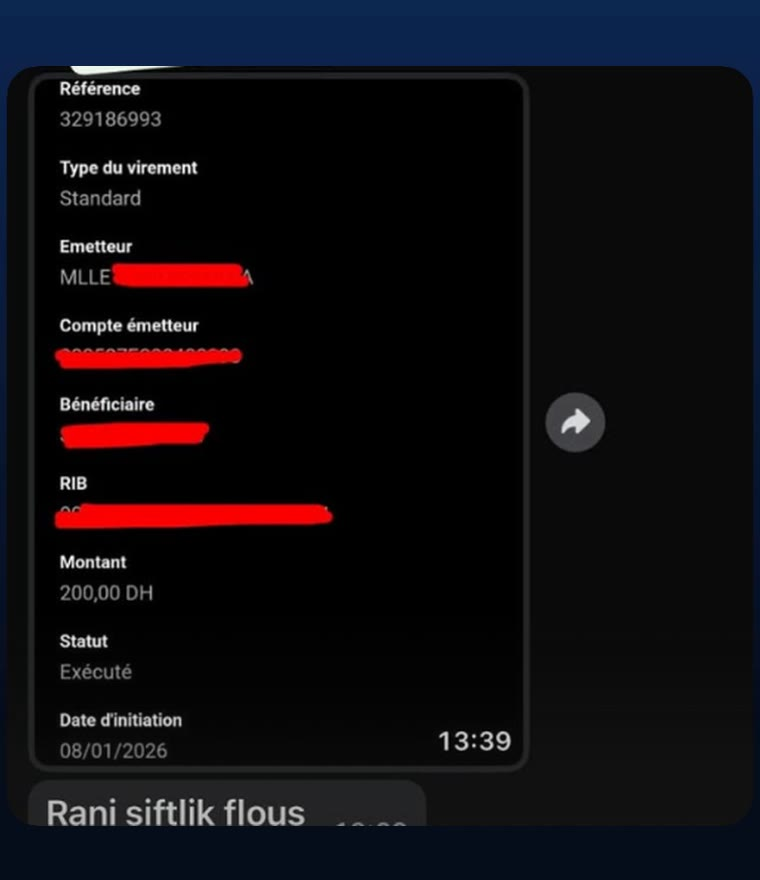
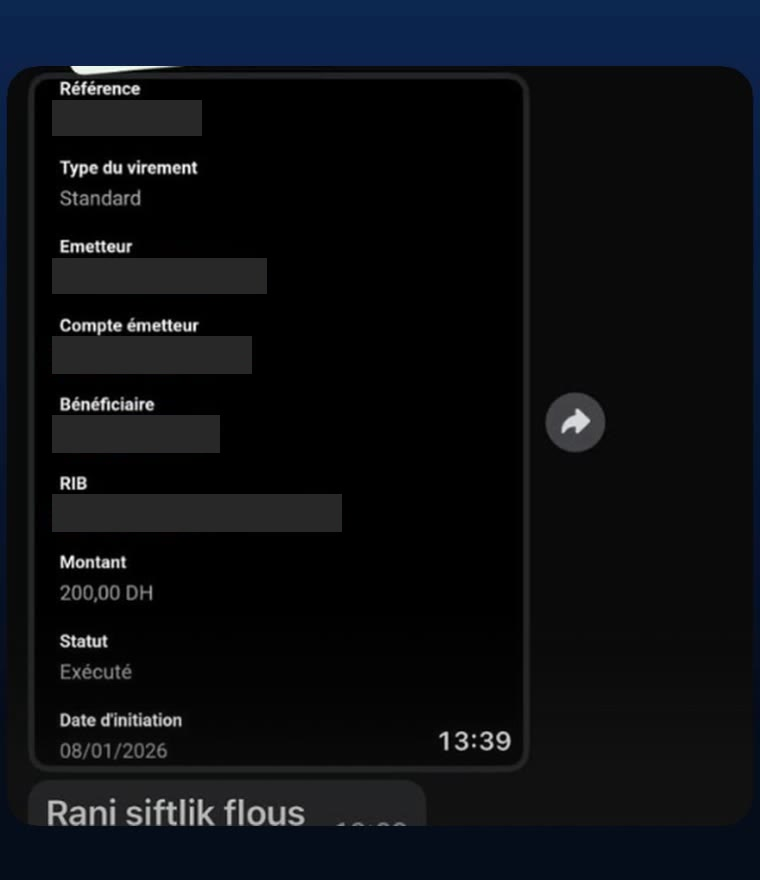
Fix issues found in the site audit
Site:
- Open WhatsApp through api.whatsapp.com/send: the wa.me redirect
  turned emoji such as ✅ and 📎 into a replacement character.
- Thank-you texts point to the 'Ouvrir WhatsApp' button, since the
  automatic open can be blocked without a tap.
- Fully cover the account, RIB and reference on the bank transfer
  proof, and the receipt code and barcode on the Cash Plus proof.
- Short privacy line next to the send button.
- A fast double tap on Suivant no longer lands on Retour.
- /formulaire: no history entry on load (Back left only on the second
  press); Back now goes to the previous step, then leaves.
- Chrome Android Back gesture goes back one step in the popup instead
  of closing it.
- Keep the order id until Google confirms, so a retry updates the same
  row; phone typed as 212... no longer becomes 212212...; certificates
  listed as 'if any'.

Script (to paste in Apps Script):
- Escape client text starting with = + - @ so Sheets does not read it
  as a formula.
- Never create a new spreadsheet when the real one fails to open.
- No empty Drive folder per order now that photos come by WhatsApp.
- Shorten the WhatsApp alert without cutting an emoji in half.

diff --git a/index.html b/index.html
@@ -701,11 +701,12 @@ dialog.lb button { position: fixed; top: 14px; right: 14px; width: 48px; height:
           <div class="full"><label><span><span lang="ar">شنو كتحب دير فوقت الفراغ</span><span lang="fr">Ce que vous aimez faire</span></span><input type="text" name="loisirs" data-ph="Football, lecture, cuisine…" autocomplete="off"></label></div>
 
           <div class="part"><i>10</i><span lang="ar">التصويرة والوثائق</span><span lang="fr">Photo et documents</span></div>
-          <div class="full" id="doc-note"><span lang="ar">📎 التصويرة الشخصية، رخصة السياقة والشهادات (تصاور ولا PDF): صيفطهم لينا فواتساب من بعد ما تصيفط المعلومات. واتساب غادي يتحل بوحدو.</span><span lang="fr">📎 Photo d'identité, permis et certificats (photos ou PDF) : envoyez-les-nous sur WhatsApp après l'envoi du formulaire. WhatsApp s'ouvrira tout seul.</span></div>
+          <div class="full" id="doc-note"><span lang="ar">📎 التصويرة الشخصية، رخصة السياقة والشهادات (تصاور ولا PDF): صيفطهم لينا فواتساب من بعد ما تصيفط المعلومات.</span><span lang="fr">📎 Photo d'identité, permis et certificats (photos ou PDF) : envoyez-les-nous sur WhatsApp après l'envoi du formulaire.</span></div>
         </div>
         <div class="foot">
           <div class="nav"><button class="btn soft" type="button" id="pg-back"><span lang="ar">رجوع</span><span lang="fr">Retour</span></button><button class="btn go" type="button" id="pg-next"><span lang="ar">التالي</span><span lang="fr">Suivant</span><svg class="arr" viewBox="0 0 24 24" aria-hidden="true"><path fill="none" stroke="currentColor" stroke-width="2.4" stroke-linecap="round" stroke-linejoin="round" d="M15 5l-7 7 7 7"/></svg></button></div>
           <button class="btn go" type="submit" id="pg-send"><span lang="ar">صيفط المعلومات</span><span lang="fr">Envoyer</span><svg class="arr" viewBox="0 0 24 24" aria-hidden="true"><path fill="none" stroke="currentColor" stroke-width="2.4" stroke-linecap="round" stroke-linejoin="round" d="M15 5l-7 7 7 7"/></svg></button>
+          <span class="saved"><span lang="ar">🔒 المعلومات ديالك كنستعملوها غير باش نوجدو الملف ديالك، وما كنعطيوهاش لحد.</span><span lang="fr">🔒 Vos informations servent uniquement à préparer votre dossier et ne sont partagées avec personne.</span></span>
           <span class="saved" id="saved"><span lang="ar">المعلومات كتتسجل فالتليفون ديالك حتى تصيفطها.</span><span lang="fr">Vos réponses restent enregistrées sur votre téléphone jusqu'à l'envoi.</span></span>
         </div>
       </form>
@@ -717,8 +718,8 @@ dialog.lb button { position: fixed; top: 14px; right: 14px; width: 48px; height:
       <div class="form thanks" id="thanks" hidden>
         <div class="big">🙏</div>
         <b><span lang="ar">شكرا! توصلنا بالطلب ديالك</span><span lang="fr">Merci ! Votre demande est bien reçue</span></b>
-        <p id="thx-ok"><span lang="ar">المعلومات ديالك وصلونا ✅ واتساب غادي يتحل دابا: كليكي على ➤، ومن بعد صيفط لينا التصويرة والوثائق فنفس المحادثة.</span><span lang="fr">Vos informations nous sont parvenues ✅ WhatsApp va s'ouvrir : touchez ➤, puis envoyez-nous votre photo et vos documents dans la même conversation.</span></p>
-        <p id="thx-send" hidden><span lang="ar">⚠ الأنترنت ضعيف وما تأكدناش واش وصلونا المعلومات. واتساب غادي يتحل فيه الأجوبة ديالك: كليكي على ➤ باش توصلنا، ومن بعد صيفط التصويرة والوثائق.</span><span lang="fr">⚠ Connexion faible : nous n'avons pas pu confirmer la réception. WhatsApp va s'ouvrir avec vos réponses : touchez ➤ pour nous les envoyer, puis envoyez votre photo et vos documents.</span></p>
+        <p id="thx-ok"><span lang="ar">المعلومات ديالك وصلونا ✅ كليكي على « حل واتساب » وصيفط الميساج، ومن بعد صيفط لينا التصويرة والوثائق فنفس المحادثة.</span><span lang="fr">Vos informations nous sont parvenues ✅ Touchez « Ouvrir WhatsApp » et envoyez le message, puis votre photo et vos documents dans la même conversation.</span></p>
+        <p id="thx-send" hidden><span lang="ar">⚠ الأنترنت ضعيف وما تأكدناش واش وصلونا المعلومات. كليكي على « حل واتساب »: الأجوبة ديالك غادي تكون فالميساج، صيفطها باش توصلنا، ومن بعد صيفط التصويرة والوثائق.</span><span lang="fr">⚠ Connexion faible : nous n'avons pas pu confirmer la réception. Touchez « Ouvrir WhatsApp » : vos réponses seront dans le message, envoyez-le, puis votre photo et vos documents.</span></p>
         <button class="btn go" type="button" id="thx-wa"><span lang="ar">حل واتساب</span><span lang="fr">Ouvrir WhatsApp</span></button>
       </div>
 </dialog>
@@ -740,7 +741,7 @@ dialog.lb button { position: fixed; top: 14px; right: 14px; width: 48px; height:
   }
   function wire() {
     document.querySelectorAll('.wa').forEach(function (a) {
-      a.href = 'https://wa.me/' + PHONE + '?text=' + encodeURIComponent(msg());
+      a.href = 'https://api.whatsapp.com/send?phone=' + PHONE + '&text=' + encodeURIComponent(msg());
       a.removeAttribute('target'); a.rel = 'noopener';
     });
     document.querySelectorAll('.tel-link').forEach(function (a) { a.href = 'tel:+' + PHONE; });
@@ -754,7 +755,8 @@ dialog.lb button { position: fixed; top: 14px; right: 14px; width: 48px; height:
   // auto = opened by the page itself, not by a tap: on phones only try the app, so a blocked attempt
   // leaves the thank-you screen (and its WhatsApp button) instead of jumping to the wa.me page
   function goWhatsApp(text, auto) {
-    var web = 'https://wa.me/' + PHONE + '?text=' + encodeURIComponent(text);
+    // not wa.me: its redirect turns emoji such as ✅ and 📎 into �
+    var web = 'https://api.whatsapp.com/send?phone=' + PHONE + '&text=' + encodeURIComponent(text);
     var phone = /Android|iPhone|iPad|iPod/i.test(navigator.userAgent);
     setTimeout(function () {
       if (!phone) { location.href = web; return; }
@@ -901,7 +903,9 @@ dialog.lb button { position: fixed; top: 14px; right: 14px; width: 48px; height:
   var cells = Array.prototype.slice.call(form.querySelector('.g').children), sNow = 1;
   cells.forEach(function (el) { if (el.classList.contains('part')) sNow = STEPS[+el.querySelector('i').textContent] || sNow; el.dataset.step = sNow; });
   var reached = {};
+  var wentAt = 0;
   function go(n) {
+    wentAt = Date.now();
     cur = Math.max(1, Math.min(NSTEP, n));
     cells.forEach(function (el) { el.classList.toggle('hid', +el.dataset.step !== cur); });
     document.getElementById('pg-t').innerHTML = sp('المرحلة ' + cur + ' من ' + NSTEP + ' · ' + STEP_T[cur][0], 'Étape ' + cur + ' / ' + NSTEP + ' · ' + STEP_T[cur][1]);
@@ -914,11 +918,12 @@ dialog.lb button { position: fixed; top: 14px; right: 14px; width: 48px; height:
     if (fd && fd.open && !reached[cur] && window.fbq) { reached[cur] = 1; fbq('trackCustom', 'FormStep', { step: cur }); }
     if (fd && fd.open) fdTop();
   }
-  document.getElementById('pg-back').addEventListener('click', function () { go(cur - 1); });
+  document.getElementById('pg-back').addEventListener('click', function () { if (Date.now() - wentAt > 500) go(cur - 1); });
   document.getElementById('pg-next').addEventListener('click', next);
   function next() {
     var bad = check(cur);
     if (bad.length) { focusBad(bad[0]); return; }
+    if (h.classList.contains('only-form')) { try { history.pushState({ fd: 1 }, ''); } catch (err) {} }
     go(cur + 1);
   }
   // first empty text field of the current step (used for Enter/Go and when the form opens)
@@ -1000,7 +1005,7 @@ dialog.lb button { position: fixed; top: 14px; right: 14px; width: 48px; height:
     if (o.loisirs) { head('9- الهوايات', '9- Loisirs'); out.push(o.loisirs); }
     var todo = [ar ? 'الصورة الشخصية' : "Photo d'identité"];
     if (o.permis_ok === 'oui') todo.push(ar ? 'رخصة السياقة' : 'Permis de conduire');
-    todo.push(ar ? 'الشهادات' : 'Certificats');
+    todo.push(ar ? 'الشهادات (إلا كانو)' : 'certificats (si j’en ai)');
     out.push('', '📎 ' + (ar ? 'غادي نصيفط فواتساب: ' : 'J’envoie sur WhatsApp : ') + todo.join(ar ? '، ' : ', '));
     return out.join('\n');
   }
@@ -1017,7 +1022,7 @@ dialog.lb button { position: fixed; top: 14px; right: 14px; width: 48px; height:
     var o = data();
     // Moroccan phone in 212 format, so Meta can match the buyer to their account.
     var raw = (o.tel || '').trim(), ph = raw.replace(/\D/g, '');
-    if (/^(\+|00)/.test(raw)) ph = ph.replace(/^00/, ''); else ph = '212' + ph.replace(/^0/, '');
+    if (/^(\+|00)/.test(raw)) ph = ph.replace(/^00/, ''); else if (!/^212/.test(ph)) ph = '212' + ph.replace(/^0/, '');
     ph = ph.replace(/^2120/, '212');
     if (ph.length < 11) ph = '';
     // Count one sale per phone per day, even if the client goes back and sends the form again.
@@ -1036,7 +1041,11 @@ dialog.lb button { position: fixed; top: 14px; right: 14px; width: 48px; height:
   });
 
   // ---- the answers go to Google Sheet (+ email); then WhatsApp opens, where the client sends photos and PDFs ----
-  function newId() { return Date.now().toString(36) + Math.random().toString(36).slice(2, 7); }
+  function orderId() {
+    var id = ''; try { id = localStorage.getItem('procv-oid') || ''; } catch (err) {}
+    if (!id) { id = Date.now().toString(36) + Math.random().toString(36).slice(2, 7); try { localStorage.setItem('procv-oid', id); } catch (err) {} }
+    return id;
+  }
   // text/plain body: no preflight. The Apps Script answer is readable (CORS *), so we know the row was saved.
   // If a browser blocks reading it, send blind like before so the order still goes out.
   function post(obj) {
@@ -1053,14 +1062,14 @@ dialog.lb button { position: fixed; top: 14px; right: 14px; width: 48px; height:
     var short = ar
       ? 'السلام عليكم، طلبت ملف الترشيح الألماني من عندكم ✅' + (nom ? '\nالسمية: ' + nom : '') + '\nالمعلومات صيفطتهم فالموقع، ودابا غادي نصيفط التصويرة والوثائق هنا.'
       : 'Bonjour, j’ai commandé le dossier de candidature allemand ✅' + (nom ? '\nNom : ' + nom : '') + '\nInformations envoyées par le site ; j’envoie ici ma photo et mes documents.';
-    var saved = SAVE_URL ? post({ type: 'form', id: newId(), data: o, message: text, nfiles: 0 }) : Promise.reject(new Error('off'));
+    var saved = SAVE_URL ? post({ type: 'form', id: orderId(), data: o, message: text, nfiles: 0 }) : Promise.reject(new Error('off'));
     // wait up to 25 s for Google (it also sends the email before answering).
     // Not confirmed: the full answers go in the WhatsApp message, and they stay on the phone in case it is not sent.
     var late = new Promise(function (r, j) { setTimeout(function () { j(new Error('timeout')); }, 25000); });
     Promise.race([saved, late]).then(function () { return true; }, function () { return false; }).then(function (ok) {
       sending = false; doneMsg = ok ? short : text;
       if (ok) {
-        try { localStorage.removeItem(KEY); } catch (err) {}
+        try { localStorage.removeItem(KEY); localStorage.removeItem('procv-oid'); } catch (err) {}
         form.reset(); form.querySelectorAll('.item').forEach(function (i) { i.remove(); }); addItem(expRep); addItem(etuRep); permisUI(); expUI();
         go(1);
       }
@@ -1107,10 +1116,11 @@ go(st0);
     afterClose(); // the native close event is not reliable in every browser
   }
   fd.addEventListener('close', afterClose);
+  fd.addEventListener('cancel', function (e) { if (!form.hidden && cur > 1) { e.preventDefault(); go(cur - 1); } });
   window.addEventListener('popstate', function () {
     backPending = false;
     if (!fd.open) return;
-    if (!form.hidden && cur > 1) { go(cur - 1); try { history.pushState({ fd: 1 }, ''); } catch (err) {} }
+    if (!form.hidden && cur > 1) { go(cur - 1); if (!h.classList.contains('only-form')) { try { history.pushState({ fd: 1 }, ''); } catch (err) {} } }
     else { popClose = true; closeForm(); }
   });
   document.getElementById('fd-x').addEventListener('click', closeForm);
@@ -1130,7 +1140,6 @@ go(st0);
   if (h.classList.contains('only-form')) {
     document.getElementById('of-slot').appendChild(fd);
     fd.classList.add('inline'); fd.setAttribute('open', '');
-    try { history.pushState({ fd: 1 }, ''); } catch (err) {}
     if (window.fbq) { icSent = true; fbq('track', 'InitiateCheckout', { value: 200, currency: 'MAD', content_name: 'Bewerbung' }); }
     go(cur);
   } else if (location.hash === '#commande') openForm();
